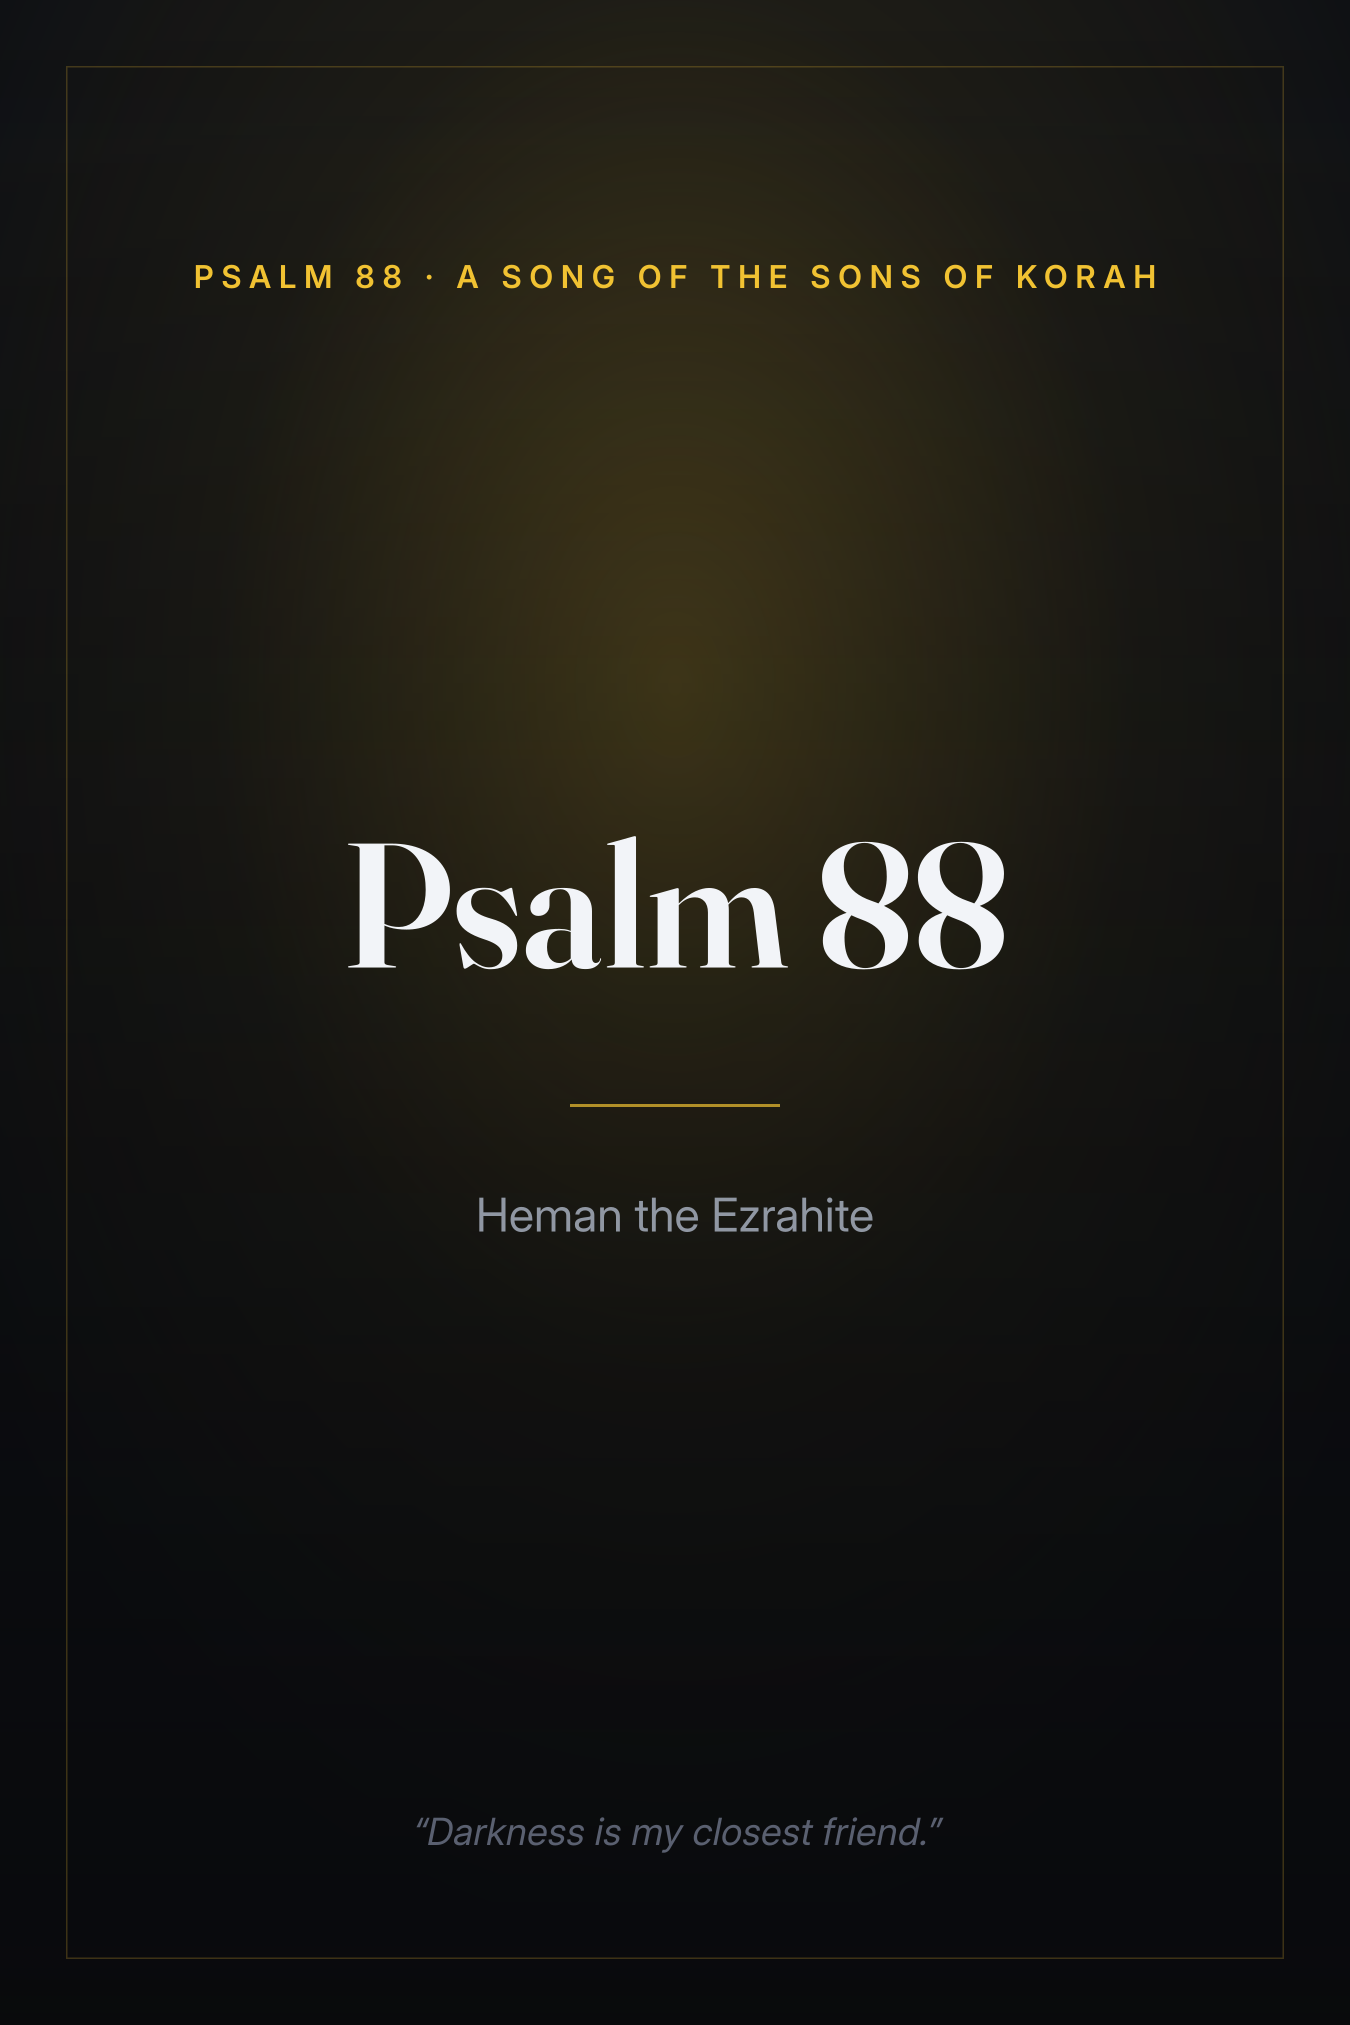
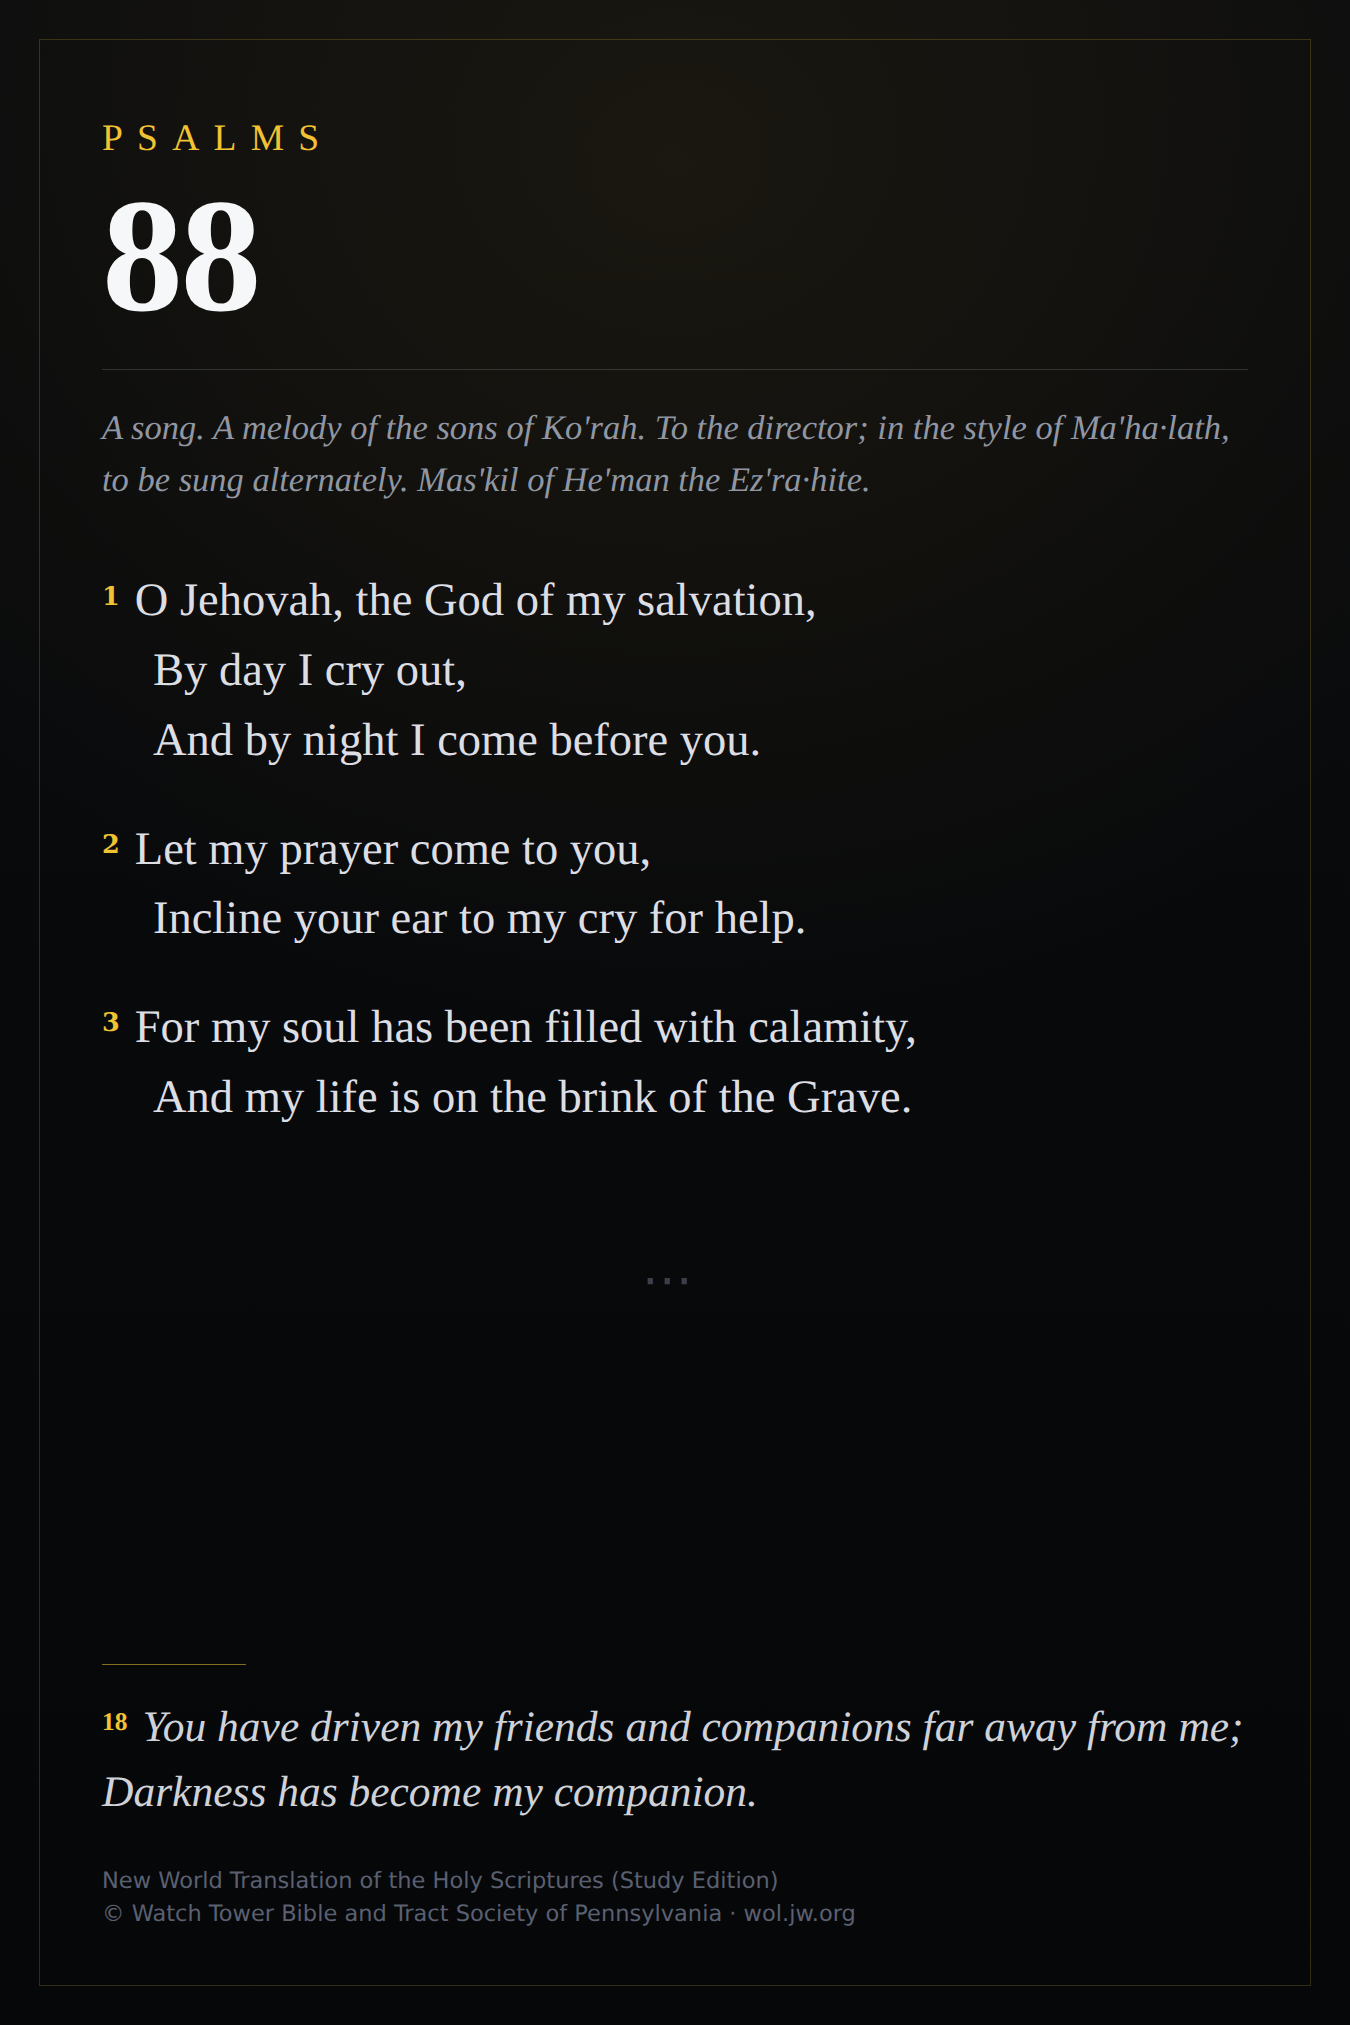
set psalm 88 in serif, and point it at the wol edition
Three things, all about this being a specific copy rather than a
generic reference.

The cover was a title plate — the words "Psalm 88" set large over a
gradient, which is a poster for a psalm rather than the psalm. It is
now the text itself: the superscription, verses 1-3, and verse 18
setting in serif on the page's own dark ground, so at thumbnail size it
reads as a page of scripture, which is what it is. Rendered from
scripts/covers/psalm-88.html through headless Chrome; the source is
committed so it can be regenerated or restyled.

The link goes to wol.jw.org rather than Bible Gateway's ESV. That was
the wrong text: this is the New World Translation, which is the edition
Jacob actually read, and sending a reader to a different translation
quietly substitutes a different set of words for the ones that matter.

And readings gained an optional `note` — a line of context belonging to
the *link* rather than to the work, since readings have no page here to
put it on. It rides along as the tooltip on the cover and on the index
row. Psalm 88's says he grew up reading this one.

The cover quotes 4 of 18 verses and credits the translation and holder
on the plate. That is an excerpt for a cover, not a reproduction of the
chapter; the whole text stays one click away at the source.

diff --git a/scripts/covers/psalm-88.html b/scripts/covers/psalm-88.html
@@ -1,0 +1,75 @@
+<!doctype html>
+<meta charset="utf-8">
+<style>
+  @page { margin: 0 }
+  html, body { margin: 0; padding: 0; background: #08090b; }
+  .plate {
+    width: 900px; height: 1350px; box-sizing: border-box;
+    background:
+      radial-gradient(120% 70% at 50% 8%, rgba(241,194,50,0.07), transparent 62%),
+      linear-gradient(#0a0b0e, #08090b 55%, #060709);
+    padding: 78px 68px 62px;
+    display: flex; flex-direction: column;
+    font-family: "Liberation Serif", "DejaVu Serif", Georgia, serif;
+    color: #e9eaee;
+    position: relative;
+  }
+  .plate::after {
+    content: ""; position: absolute; inset: 26px;
+    border: 1px solid rgba(241,194,50,0.20); pointer-events: none;
+  }
+  .chapter {
+    font-size: 108px; line-height: .9; font-weight: 700;
+    letter-spacing: -0.015em; color: #f6f7f9; margin: 0;
+  }
+  .book {
+    font-size: 25px; letter-spacing: .38em; text-transform: uppercase;
+    color: #f1c232; margin: 0 0 16px;
+  }
+  .super {
+    margin: 26px 0 0; font-size: 23px; line-height: 1.5;
+    font-style: italic; color: #9097a3;
+    border-top: 1px solid rgba(233,234,238,0.16); padding-top: 22px;
+  }
+  .verses { margin: 40px 0 0; }
+  .v { margin: 0 0 26px; font-size: 31px; line-height: 1.5; color: #dcdee4; }
+  .v b {
+    font-weight: 700; font-size: 17px; color: #f1c232;
+    vertical-align: 0.42em; margin-right: 10px; font-family: "DejaVu Serif", serif;
+  }
+  /* First line runs on after the verse number; the rest of the couplet
+     is indented under it, the way a psalm is set. */
+  .l { display: block; padding-left: 34px; }
+  .gap {
+    margin: 52px 0 52px; text-align: center; font-size: 34px;
+    letter-spacing: .3em; color: #3a3f4a;
+  }
+  .tail { margin-top: auto; }
+  .rule { width: 96px; height: 1px; background: rgba(241,194,50,.55); margin: 0 0 20px; }
+  .close { margin: 0; font-size: 29px; line-height: 1.5; font-style: italic; color: #cfd2d9; }
+  .close b { font-style: normal; font-weight: 700; font-size: 17px; color: #f1c232; vertical-align: .42em; margin-right: 10px; }
+  .credit {
+    margin: 26px 0 0; font-size: 15px; line-height: 1.5; color: #5a6070;
+    font-family: "DejaVu Sans", system-ui, sans-serif;
+  }
+</style>
+<div class="plate">
+  <p class="book">Psalms</p>
+  <h1 class="chapter">88</h1>
+
+  <p class="super">A song. A melody of the sons of Koʹrah. To the director; in the style of Maʹha·lath, to be sung alternately. Masʹkil of Heʹman the Ezʹra·hite.</p>
+
+  <div class="verses">
+    <p class="v"><b>1</b>O Jehovah, the God of my salvation,<span class="l">By day I cry out,</span><span class="l">And by night I come before you.</span></p>
+    <p class="v"><b>2</b>Let my prayer come to you,<span class="l">Incline your ear to my cry for help.</span></p>
+    <p class="v"><b>3</b>For my soul has been filled with calamity,<span class="l">And my life is on the brink of the Grave.</span></p>
+  </div>
+
+  <p class="gap">⋯</p>
+
+  <div class="tail">
+    <div class="rule"></div>
+    <p class="close"><b>18</b>You have driven my friends and companions far away from me; Darkness has become my companion.</p>
+    <p class="credit">New World Translation of the Holy Scriptures (Study Edition)<br>© Watch Tower Bible and Tract Society of Pennsylvania · wol.jw.org</p>
+  </div>
+</div>

diff --git a/velite.config.ts b/velite.config.ts
@@ -167,6 +167,11 @@ const readings = defineCollection({
       status: s.enum(["queued", "reading", "finished", "paused", "reference"]).default("reading"),
       source: s.string().optional(),
       url: s.string().optional(),
+      // A line of personal context that belongs *to the link* rather than
+      // to the work — why this edition, why this copy. Readings link
+      // straight out, so there is no page here to put it on; it rides
+      // along as the tooltip on the cover and the title.
+      note: s.string().optional(),
     })
     .transform((d) => ({ ...d, kind: "reading" as const })),
 });

diff --git a/src/app/page.tsx b/src/app/page.tsx
@@ -318,8 +318,8 @@ function CoverCard({ node, variant }: { node: Node; variant: "reading" | "paper"
     <a
       href={href}
       {...(offsite ? { target: "_blank", rel: "noreferrer" } : {})}
-      title={node.title}
-      aria-label={node.title}
+      title={node.note ?? node.title}
+      aria-label={node.note ? `${node.title} — ${node.note}` : node.title}
       className="group block w-28 no-underline sm:w-32"
     >
       <CoverArt

diff --git a/src/lib/graph.ts b/src/lib/graph.ts
@@ -113,6 +113,7 @@ const toNode =
       readingStatus: kind === "reading" ? (extra.status as ReadingStatus | undefined) : undefined,
       source: extra.source as string | undefined,
       url: extra.url as string | undefined,
+      note: extra.note as string | undefined,
       updateType: extra.updateType as UpdateType | undefined,
       embed: extra.embed as UpdateEmbed | undefined,
       category: extra.category as string | undefined,

diff --git a/src/app/[kind]/page.tsx b/src/app/[kind]/page.tsx
@@ -127,6 +127,7 @@ export default async function KindIndexPage({ params }: { params: Params }) {
                 <Link
                   href={href}
                   {...(offsite ? { target: "_blank", rel: "noreferrer" } : {})}
+                  {...(node.note ? { title: node.note } : {})}
                   className={
                     withCover
                       ? "group flex items-start gap-5 no-underline"

diff --git a/src/lib/graph-types.ts b/src/lib/graph-types.ts
@@ -86,6 +86,8 @@ export type Node = {
   readingStatus?: ReadingStatus;
   source?: string;
   url?: string;
+  /** Reading-only: why this copy, shown as the tooltip on its cover. */
+  note?: string;
   updateType?: UpdateType;
   embed?: UpdateEmbed;
   category?: string;
